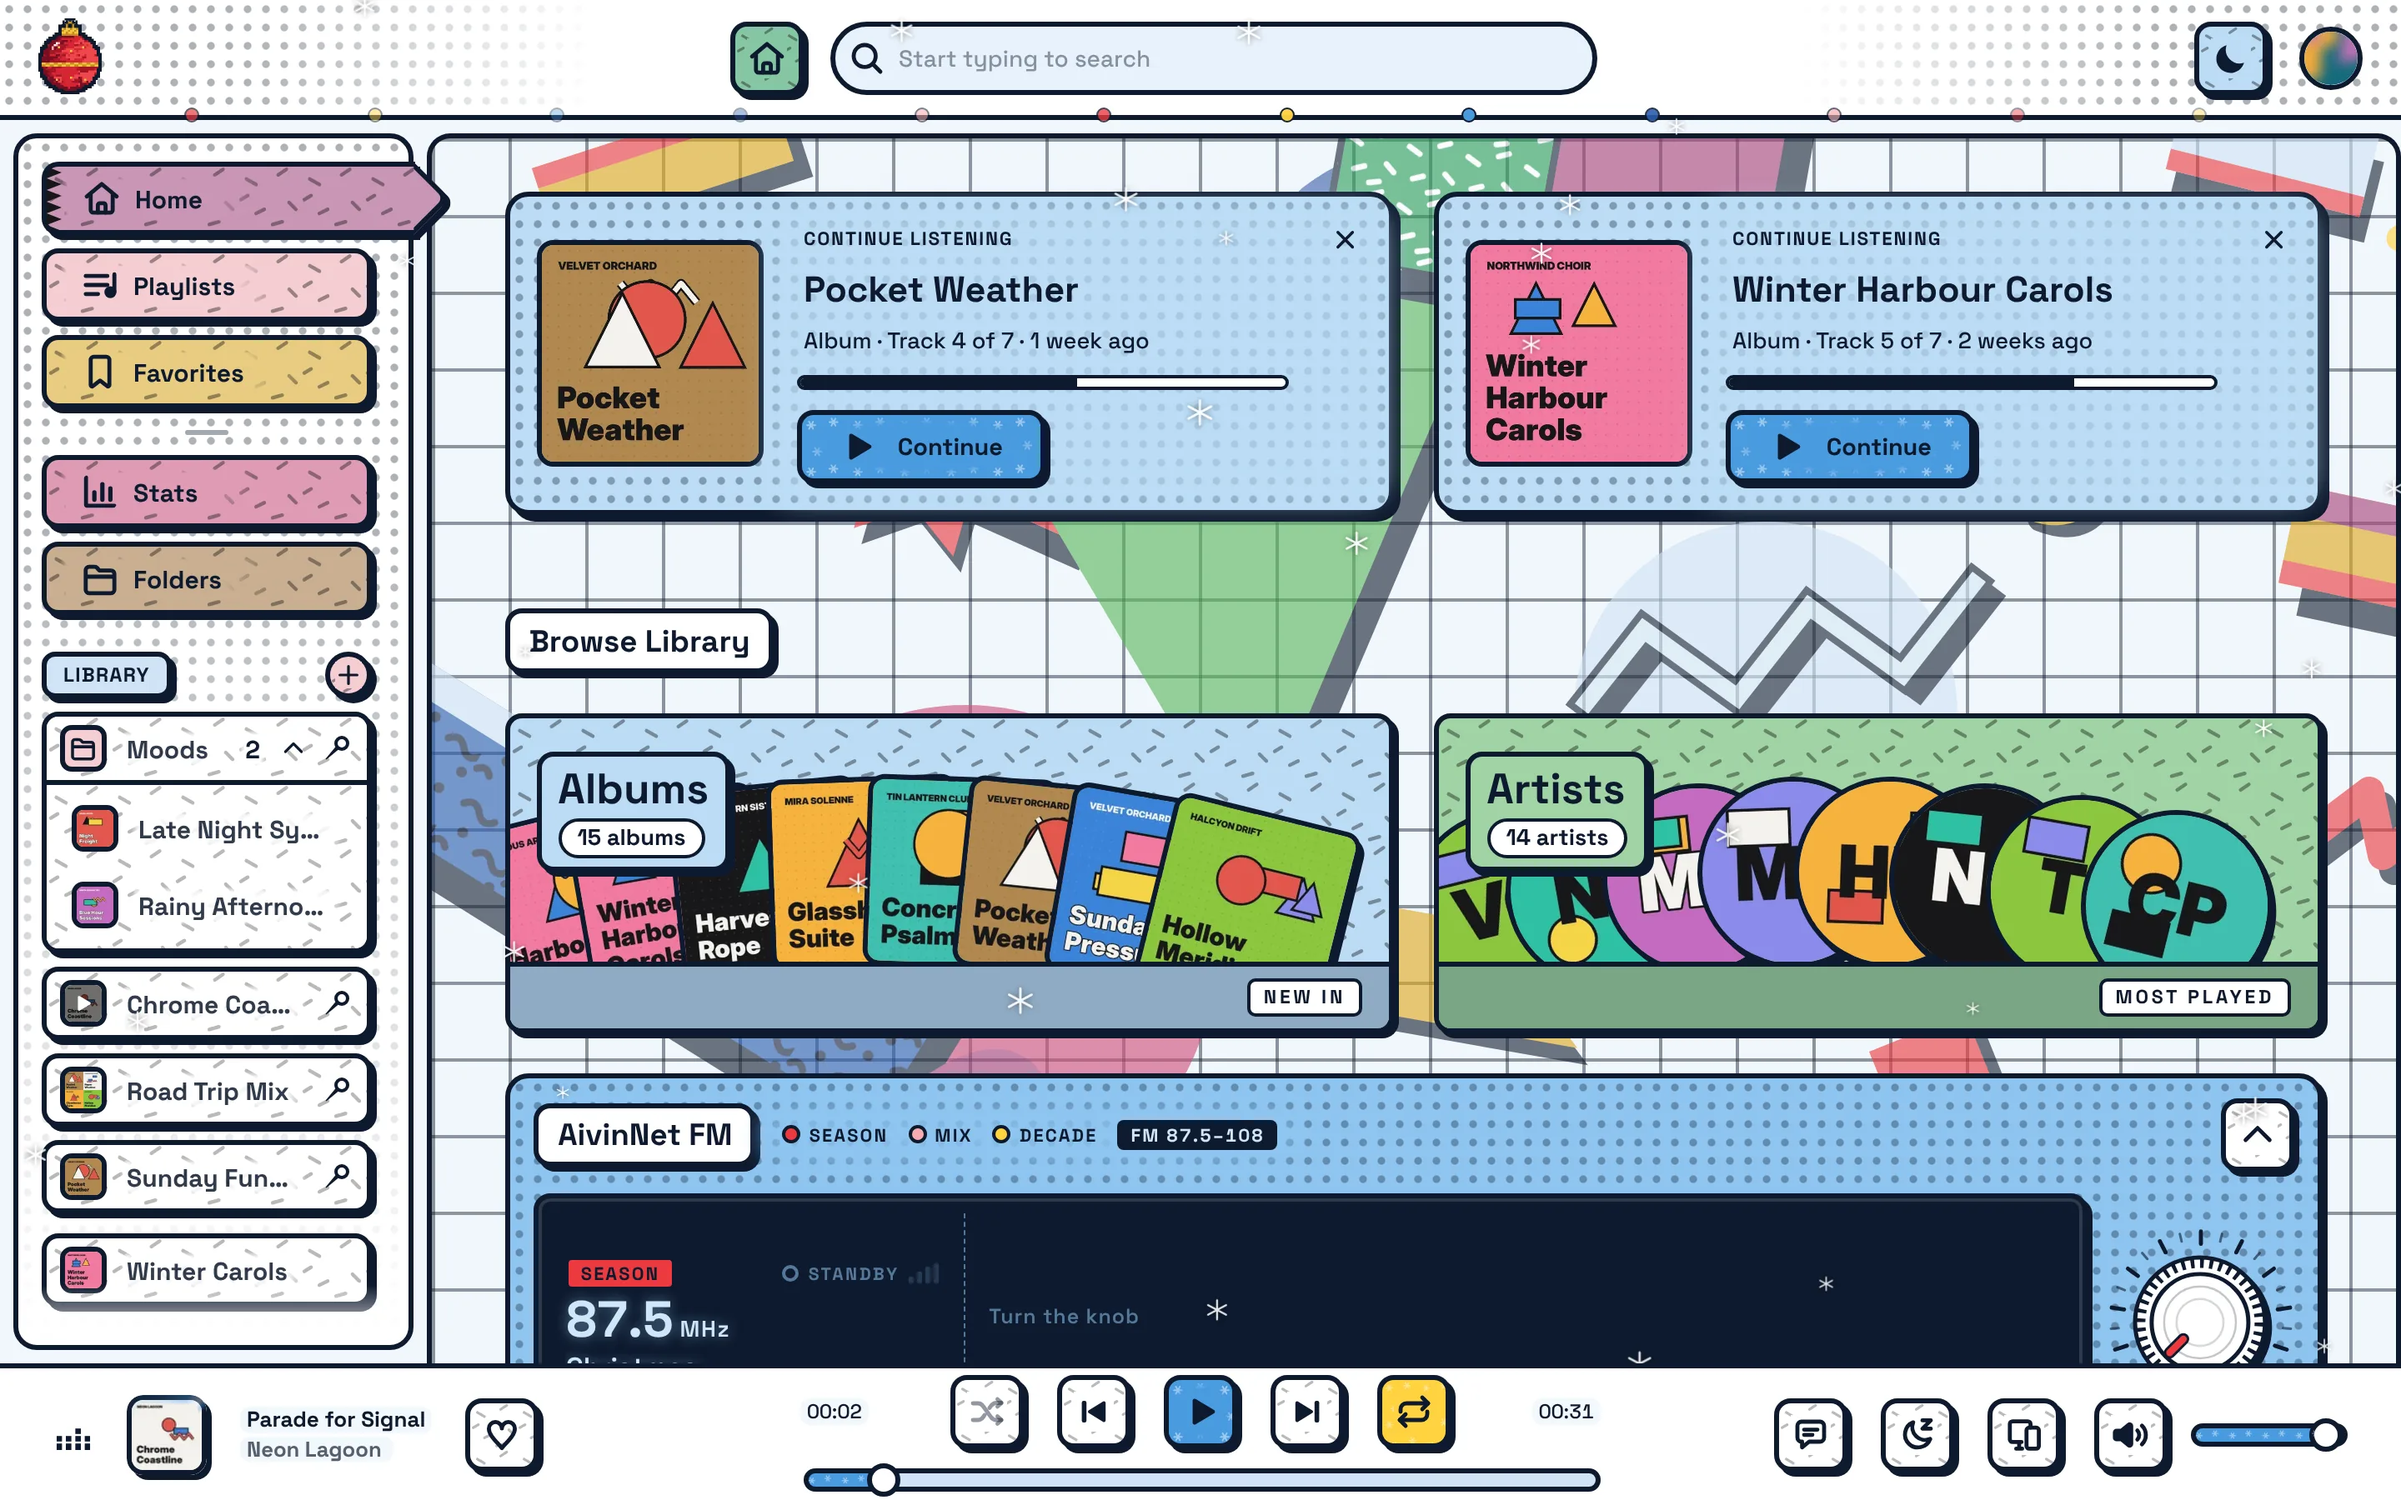
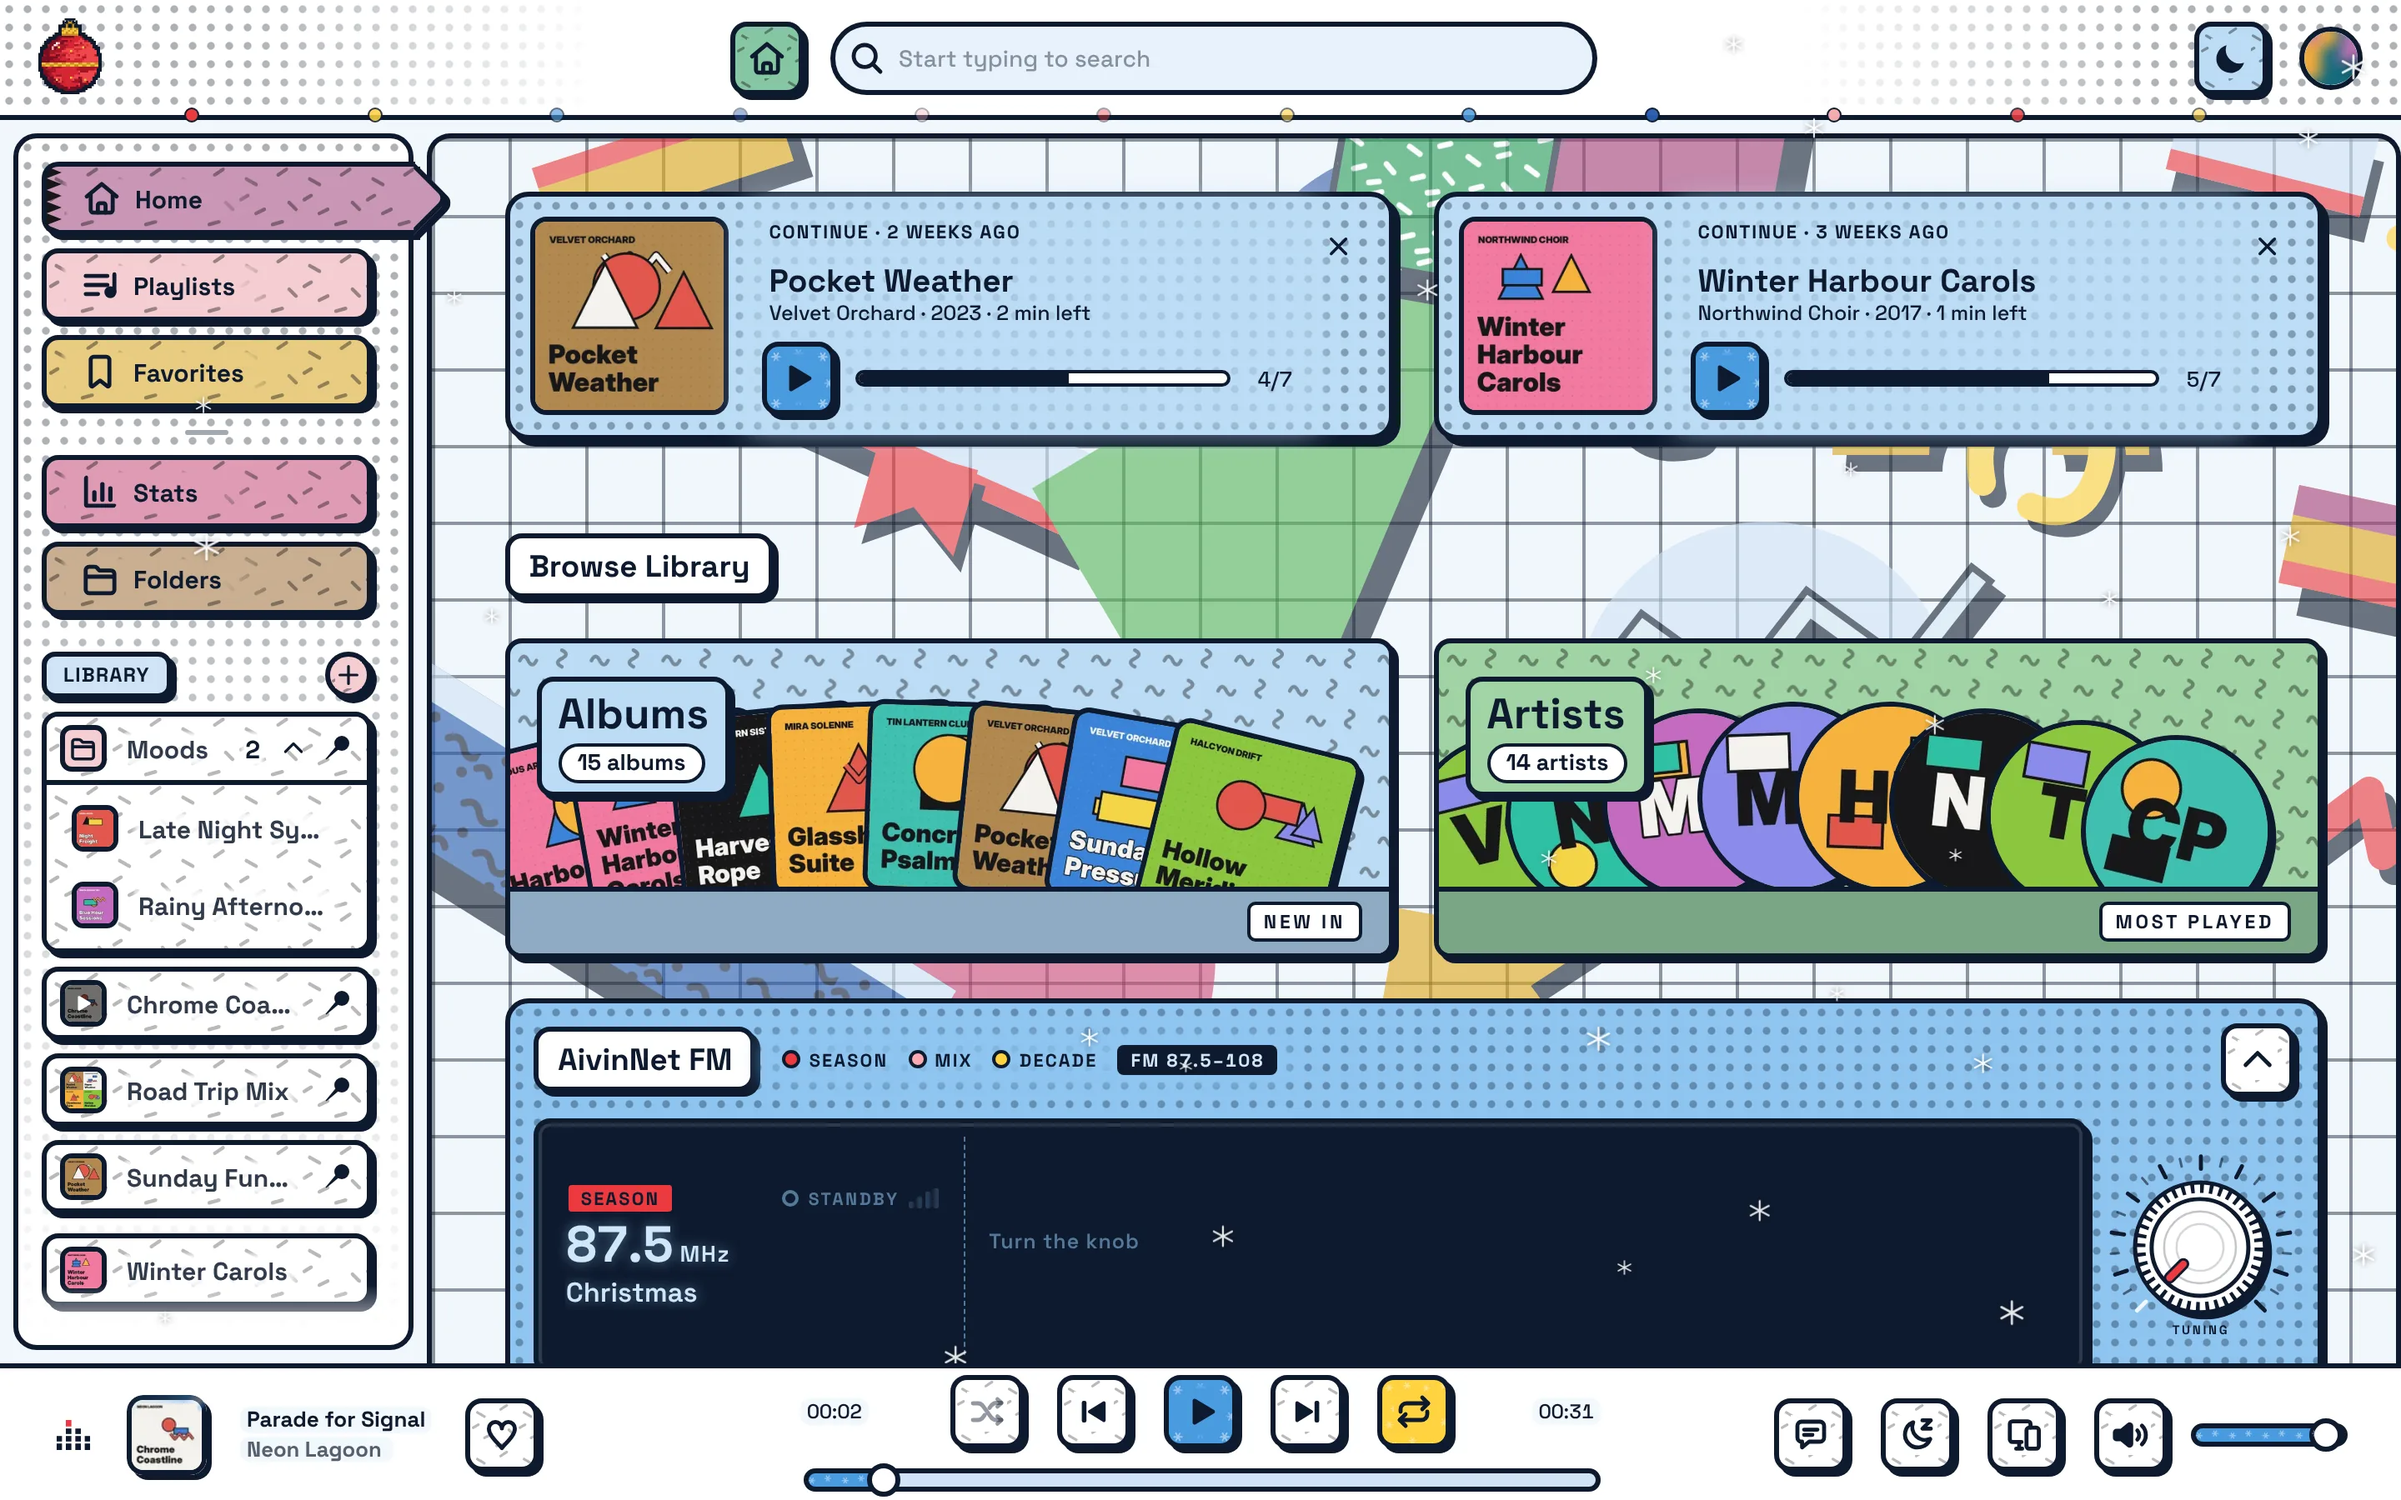
docs(release): changelog, README and screenshots for 2026.11.12 (#937)
* docs(release): changelog for 2026.11.12

Claude-Session: https://claude.ai/code/session_01MjKC1nG7y3H6QY8vhRBa3n

* docs(release): README and screenshots for 2026.11.12

README: Quick play and the shortcut overview, rating from the bar heart.
Screenshots retaken from master: the phone navigation, the Continue bar,
the row captions and the detail heads changed since 2026.11.11.

scripts/demo/screenshots.js set dark mode by clicking .theme-toggle on
the album page; the phone no longer has that button there (#916, #922),
so the phone-dark shot timed out and the Christmas shot never ran. The
theme now goes into the persisted settings with the radio keys.

Claude-Session: https://claude.ai/code/session_01MjKC1nG7y3H6QY8vhRBa3n

---------

diff --git a/scripts/demo/screenshots.js b/scripts/demo/screenshots.js
@@ -44,18 +44,20 @@ async function open(browser, { phone = false, dark = false, date = PLAIN_DATE } 
     const login = await context.request.post(`${BASE}/auth/login`, { data: { username: 'admin', password: PASSWORD } })
     if (!login.ok()) throw new Error(`login failed: ${login.status()}`)
     // AivinNet FM is off until switched on (Settings → Home, per device); the shots show it,
-    // open on the desktop and folded to its strip on the phone. The settings store is
-    // persisted under "settings" and hydrated by $patch, so these two keys are enough.
-    await context.addInitScript((open) => {
+    // open on the desktop and folded to its strip on the phone. The app keeps its own
+    // light/dark setting (the browser's colour scheme does not reach it), and the phone has
+    // no theme button in its top bar any more, so the theme is set here too. The settings
+    // store is persisted under "settings" and hydrated by $patch, so these keys are enough.
+    await context.addInitScript(({ open, theme }) => {
         try {
             const stored = JSON.parse(localStorage.getItem('settings') || '{}')
             if (stored.show_radio === undefined) {
-                localStorage.setItem('settings', JSON.stringify({ ...stored, show_radio: true, radio_open: open }))
+                localStorage.setItem('settings', JSON.stringify({ ...stored, show_radio: true, radio_open: open, theme }))
             }
         } catch {
-            // no storage: the shots go without the radio
+            // no storage: the shots go without the radio, in light
         }
-    }, !phone)
+    }, { open: !phone, theme: dark ? 'dark' : 'light' })
     const page = await context.newPage()
     await page.clock.setFixedTime(new Date(date))
     return { context, page }
@@ -76,17 +78,12 @@ async function snap(page, name) {
 }
 
 // Start the album from its header, let it play a moment, pause: the bar shows a track.
-async function loadTrack(page, ids, dark) {
+async function loadTrack(page, ids) {
     await go(page, `/albums/${ids.album}`)
     await page.locator('.header-actions button').first().click()
     await page.waitForTimeout(2500)
     await page.keyboard.press('Space')
     await page.waitForTimeout(500)
-    // The app keeps its own light/dark setting; the browser's colour scheme does not reach it.
-    if (dark) {
-        await page.locator('.theme-toggle').first().click()
-        await page.waitForTimeout(400)
-    }
 }
 
 ;(async () => {
@@ -95,7 +92,7 @@ async function loadTrack(page, ids, dark) {
     {
         const { context, page } = await open(browser)
         ids = await lookup(context.request)
-        await loadTrack(page, ids, false)
+        await loadTrack(page, ids)
         await go(page, '/'); await snap(page, 'home')
         await go(page, `/albums/${ids.album}`); await snap(page, 'album')
         await go(page, `/playlist/${ids.playlist}`); await snap(page, 'playlist')
@@ -109,14 +106,14 @@ async function loadTrack(page, ids, dark) {
     }
     {
         const { context, page } = await open(browser, { dark: true })
-        await loadTrack(page, ids, true)
+        await loadTrack(page, ids)
         await go(page, '/'); await snap(page, 'home-dark')
         await go(page, `/albums/${ids.album}`); await snap(page, 'album-dark')
         await context.close()
     }
     for (const dark of [false, true]) {
         const { context, page } = await open(browser, { phone: true, dark })
-        await loadTrack(page, ids, dark)
+        await loadTrack(page, ids)
         const sfx = dark ? '-dark' : ''
         await go(page, '/'); await snap(page, `phone-home${sfx}`)
         if (!dark) {
@@ -127,7 +124,7 @@ async function loadTrack(page, ids, dark) {
     }
     {
         const { context, page } = await open(browser, { date: CHRISTMAS_DATE })
-        await loadTrack(page, ids, false)
+        await loadTrack(page, ids)
         await go(page, '/', 4000); await snap(page, 'christmas')
         await context.close()
     }

diff --git a/.github/changelog.md b/.github/changelog.md
@@ -73,6 +73,55 @@ Silicon).
 
 ## What's new in this release
 
+Quicker to play, plays that always count, and a tidier phone, on top of
+2026.11.11.
+
+**Playing**
+
+- **Quick play: Ctrl/Cmd+P** anywhere opens a small box. Type part of a song
+  title and Enter plays it; Shift+Enter queues it next.
+- **Press `?` for every keyboard shortcut**, also under Settings → Shortcuts,
+  and the keys show in the tooltips.
+- **Rate the playing song from the player bar:** right-click or long-press the
+  heart.
+- **Every play counts.** A song is in your history once it played 5 seconds
+  (a very short one once it ran to the end), even if you pause and close the
+  page or skip on.
+- **Old plays find their songs again.** Plays left behind by renamed tags
+  follow their file, so Almost complete, Never played and Stats see them.
+
+**Home**
+
+- **Your mixes change from day to day**, still leaning towards the songs you
+  play most.
+- **Every Home row has a little symbol** next to its title, and a title that
+  does not fit scrolls.
+- **Almost complete** keeps up while you listen: a card counts down as one of
+  its missing songs starts, from anywhere, and plays exactly those songs.
+- **Continue listening** shows artist, year and time left on the desktop, and
+  sits as a slim bar on the phone.
+- Browse Library shows your most-played albums when the newest have no covers.
+
+**Phone**
+
+- **The search field comes up with the keyboard**, and the page title in the
+  top bar opens search in every view.
+- **Album, artist and playlist pages** keep their buttons in a strip under the
+  head, and the album cover stays square.
+- **Stats** moved into the account menu.
+
+**Lists and Stats**
+
+- **Playlists, Albums and Artists sort from one menu**; Playlists also sort
+  by plays, length and last played, and have a search field.
+- **The way to Rewind on Stats is a cassette** with your year's numbers, and
+  the Rewind page is laid out in clear bands. Records tiles line up.
+- Toasts go away on a tap or a sideways swipe, and a focused row never hides
+  behind the player bar.
+
+<details>
+<summary>What v2026.11.11 brought</summary>
+
 A better player on phones, on top of 2026.11.10.
 
 - **The song title is readable on phones.** The bar at the bottom gives title
@@ -85,6 +134,8 @@ A better player on phones, on top of 2026.11.10.
 - **Search on phones:** a tap anywhere on the search bar opens the keyboard,
   the idle page no longer moves sideways, and the "in your library" tiles
   fade at the edge and get arrows like the ones in Stats.
+
+</details>
 
 <details>
 <summary>What v2026.11.10 brought</summary>

diff --git a/README.md b/README.md
@@ -52,6 +52,8 @@ covers, synthetic audio. `scripts/demo/` rebuilds it and takes the pictures.</su
   discography by type and collect guest appearances. A folder browser walks the
   tree as it is on disk, for when the tags are not the truth.
 - Search over tracks, albums and artists, and an A–Z band for browsing.
+  **Quick play** (Ctrl/Cmd+P) starts a song by typing part of its title, and
+  `?` lists every keyboard shortcut.
 - Fix tags in the app, give an album a cover (upload, search online, or write it
   into the files), and give an artist a picture.
 - New music arrives with **Scan for new music** in the profile menu; AivinNet
@@ -71,8 +73,9 @@ covers, synthetic audio. `scripts/demo/` rebuilds it and takes the pictures.</su
   clicks on the logo hand you a find from your own library.
 
 **Ratings**
-- Rate tracks from 1 to 5 stars: in Now Playing, from a song's menu, or by
-  tapping the star in a song list. Each person rates for themselves.
+- Rate tracks from 1 to 5 stars: in Now Playing, from a song's menu, by
+  tapping the star in a song list, or with a long-press on the heart in the
+  player bar. Each person rates for themselves.
 - Your 4- and 5-star songs feed *Your top rated*. Mixes and stations play the
   songs you rated high more often, and never pick the ones you rated 1.
 - A smart playlist rule, *My rating*, fills itself from your stars.
